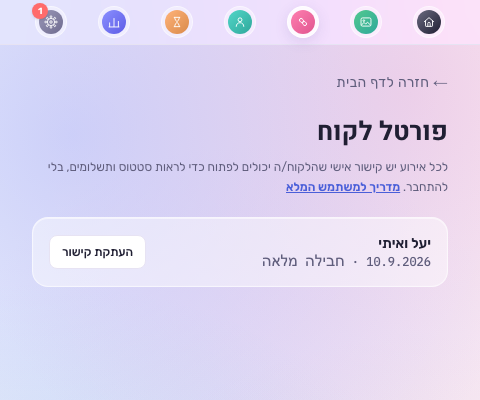
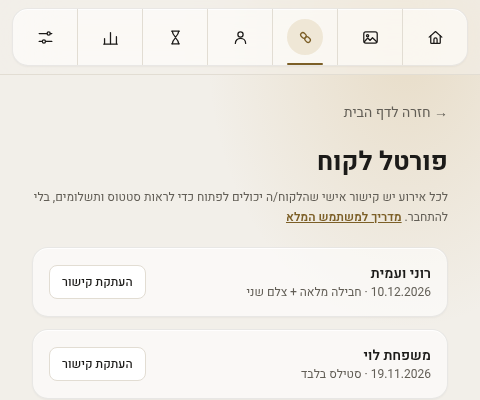
Guides: new screenshots in the current design; one copy-link button; lead statuses in palette
- The five in-app guide screenshots (public/guides/*-1.png) showed the retired pastel design;
  re-shot from the live app on the test account, seeded with realistic sample data (Hebrew
  locale, light theme, same framing as before).
- Gallery management: the bottom row repeated 'העתקת קישור' next to 'שיתוף'; only the primary
  copy-link button remains.
- Lead status colours: 'נשלחה הצעת מחיר' was an off-palette indigo; now a muted slate-teal from
  the palette, and the literal hex backgrounds became theme tokens (chip / rose-bg).

Claude-Session: https://claude.ai/code/session_01EAwxAWYAnQUKLDfaBprZm2

diff --git a/src/components/GalleryManageView.tsx b/src/components/GalleryManageView.tsx
@@ -3469,21 +3469,15 @@ export default function GalleryManageView({
           </button>
         )}
 
+        {/* One copy-link button only (the primary one above) — this row used to repeat it as a
+            small secondary button right next to "שיתוף". */}
         {gallery.published && (
-          <div className="flex gap-2">
-            <button
-              onClick={openShare}
-              className={`flex-1 rounded-lg py-2.5 text-sm font-semibold bg-white border border-line text-ink ${BTN_PRESS}`}
-            >
-              שיתוף
-            </button>
-            <button
-              onClick={copyLink}
-              className={`shrink-0 rounded-lg px-3.5 py-2.5 text-xs font-semibold bg-white border border-line text-ink-soft ${BTN_PRESS}`}
-            >
-              {copied ? "✓ הועתק" : "העתקת קישור"}
-            </button>
-          </div>
+          <button
+            onClick={openShare}
+            className={`w-full rounded-lg py-2.5 text-sm font-semibold bg-white border border-line text-ink ${BTN_PRESS}`}
+          >
+            שיתוף
+          </button>
         )}
       </div>
 

diff --git a/src/components/LeadsView.tsx b/src/components/LeadsView.tsx
@@ -23,11 +23,13 @@ const STATUS_LABELS: Record<LeadStatus, string> = {
 };
 
 const STATUS_COLORS: Record<LeadStatus, { bg: string; text: string }> = {
-  new: { bg: "#F1EFE9", text: "var(--color-ink-soft)" },
+  new: { bg: "var(--color-chip)", text: "var(--color-ink-soft)" },
   contacted: { bg: "var(--color-amber-bg)", text: "var(--color-amber-deep)" },
-  quoted: { bg: "#EEEDFC", text: "#5E5CE6" },
+  // Muted slate-teal from the palette (was an off-palette indigo) — still distinct from the
+  // brass "contacted" and the green "won" next to it.
+  quoted: { bg: "color-mix(in srgb, var(--color-lime) 18%, transparent)", text: "var(--color-lime-deep)" },
   won: { bg: "var(--color-sage-bg)", text: "var(--color-sage)" },
-  lost: { bg: "#FBEEEC", text: "var(--color-rose)" },
+  lost: { bg: "var(--color-rose-bg)", text: "var(--color-rose)" },
 };
 
 export default function LeadsView({
